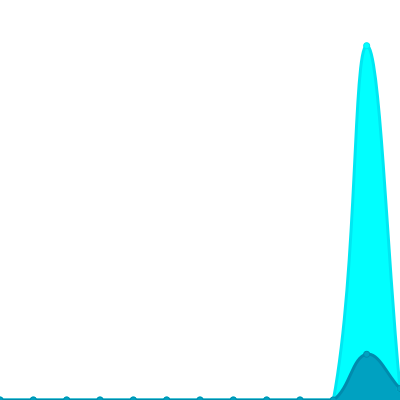
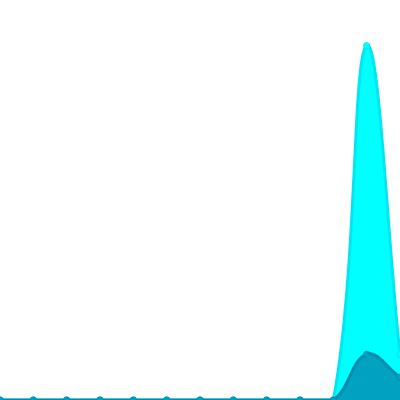
Update views

diff --git a/readme/577602088/year.md b/readme/577602088/year.md
@@ -23,10 +23,10 @@
 			<code>2023/1/1</code>
 		</td>
 		<td>
-			<code>1</code>
+			<code>2</code>
 		</td>
 		<td>
-			<code>1</code>
+			<code>4</code>
 		</td>
 	</tr>
 	<tr>
@@ -164,7 +164,7 @@
 </table>
 
 </details>
-<small><i>Last updated on 2023/1/4 12:17 AM UTC</i></small>
+<small><i>Last updated on 2023/1/4 6:08 AM UTC</i></small>
 
 ## ✂Copy and 📋 Paste
 ### SVG Badge

diff --git a/README.md b/README.md
@@ -517,7 +517,7 @@ The project created and maintained by [gayanvoice](https://github.com/gayanvoice
 	</tr>
 </table>
 
-<small><i>Last updated on 2023/1/4 12:18 AM UTC</i></small>
+<small><i>Last updated on 2023/1/4 6:08 AM UTC</i></small>
 
 ## ✂Copy and 📋 Paste
 ### Total Views Badge

diff --git a/readme/263074941/year.md b/readme/263074941/year.md
@@ -164,7 +164,7 @@
 </table>
 
 </details>
-<small><i>Last updated on 2023/1/4 12:13 AM UTC</i></small>
+<small><i>Last updated on 2023/1/4 6:04 AM UTC</i></small>
 
 ## ✂Copy and 📋 Paste
 ### SVG Badge

diff --git a/readme/279000759/year.md b/readme/279000759/year.md
@@ -164,7 +164,7 @@
 </table>
 
 </details>
-<small><i>Last updated on 2023/1/4 12:14 AM UTC</i></small>
+<small><i>Last updated on 2023/1/4 6:04 AM UTC</i></small>
 
 ## ✂Copy and 📋 Paste
 ### SVG Badge

diff --git a/readme/334980490/year.md b/readme/334980490/year.md
@@ -164,7 +164,7 @@
 </table>
 
 </details>
-<small><i>Last updated on 2023/1/4 12:13 AM UTC</i></small>
+<small><i>Last updated on 2023/1/4 6:04 AM UTC</i></small>
 
 ## ✂Copy and 📋 Paste
 ### SVG Badge

diff --git a/readme/504454517/year.md b/readme/504454517/year.md
@@ -164,7 +164,7 @@
 </table>
 
 </details>
-<small><i>Last updated on 2023/1/4 12:14 AM UTC</i></small>
+<small><i>Last updated on 2023/1/4 6:04 AM UTC</i></small>
 
 ## ✂Copy and 📋 Paste
 ### SVG Badge

diff --git a/readme/568276977/year.md b/readme/568276977/year.md
@@ -164,7 +164,7 @@
 </table>
 
 </details>
-<small><i>Last updated on 2023/1/4 12:14 AM UTC</i></small>
+<small><i>Last updated on 2023/1/4 6:04 AM UTC</i></small>
 
 ## ✂Copy and 📋 Paste
 ### SVG Badge

diff --git a/readme/569458150/year.md b/readme/569458150/year.md
@@ -164,7 +164,7 @@
 </table>
 
 </details>
-<small><i>Last updated on 2023/1/4 12:14 AM UTC</i></small>
+<small><i>Last updated on 2023/1/4 6:05 AM UTC</i></small>
 
 ## ✂Copy and 📋 Paste
 ### SVG Badge

diff --git a/readme/570860116/year.md b/readme/570860116/year.md
@@ -164,7 +164,7 @@
 </table>
 
 </details>
-<small><i>Last updated on 2023/1/4 12:14 AM UTC</i></small>
+<small><i>Last updated on 2023/1/4 6:05 AM UTC</i></small>
 
 ## ✂Copy and 📋 Paste
 ### SVG Badge

diff --git a/readme/571632630/year.md b/readme/571632630/year.md
@@ -164,7 +164,7 @@
 </table>
 
 </details>
-<small><i>Last updated on 2023/1/4 12:15 AM UTC</i></small>
+<small><i>Last updated on 2023/1/4 6:05 AM UTC</i></small>
 
 ## ✂Copy and 📋 Paste
 ### SVG Badge

diff --git a/readme/572226732/year.md b/readme/572226732/year.md
@@ -164,7 +164,7 @@
 </table>
 
 </details>
-<small><i>Last updated on 2023/1/4 12:16 AM UTC</i></small>
+<small><i>Last updated on 2023/1/4 6:06 AM UTC</i></small>
 
 ## ✂Copy and 📋 Paste
 ### SVG Badge

diff --git a/readme/573261062/year.md b/readme/573261062/year.md
@@ -164,7 +164,7 @@
 </table>
 
 </details>
-<small><i>Last updated on 2023/1/4 12:16 AM UTC</i></small>
+<small><i>Last updated on 2023/1/4 6:06 AM UTC</i></small>
 
 ## ✂Copy and 📋 Paste
 ### SVG Badge
